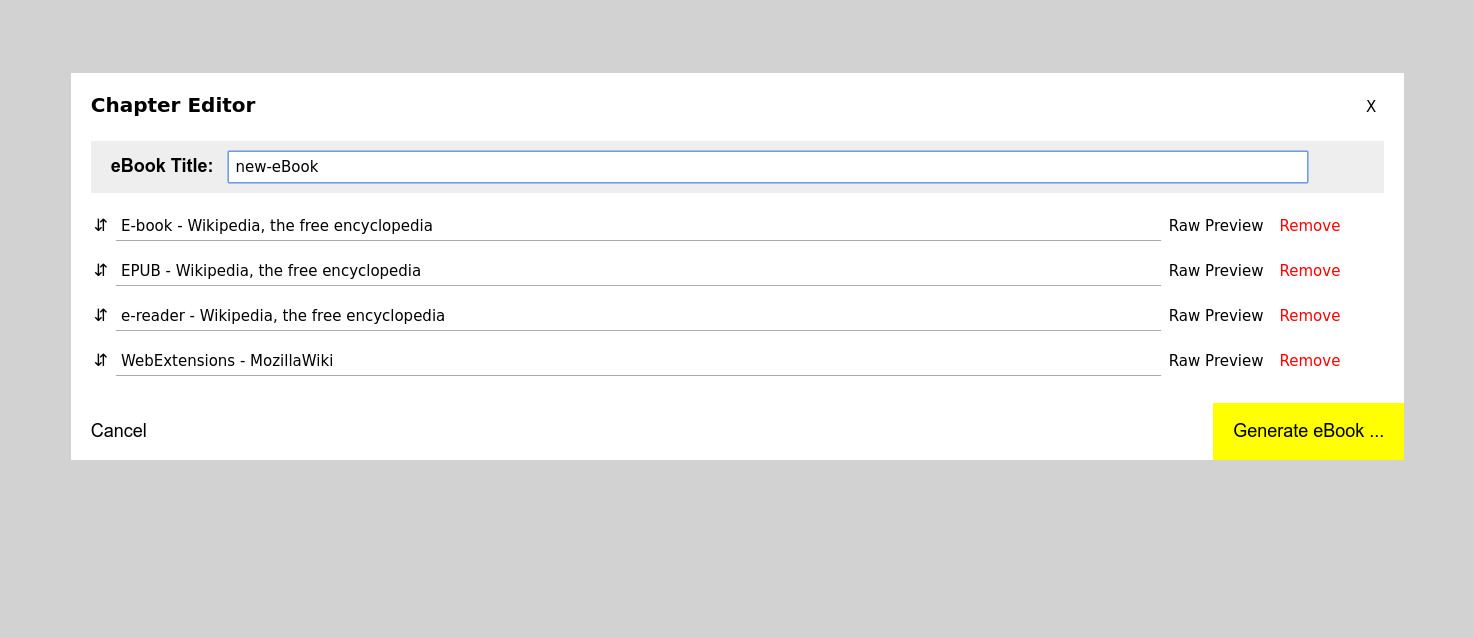
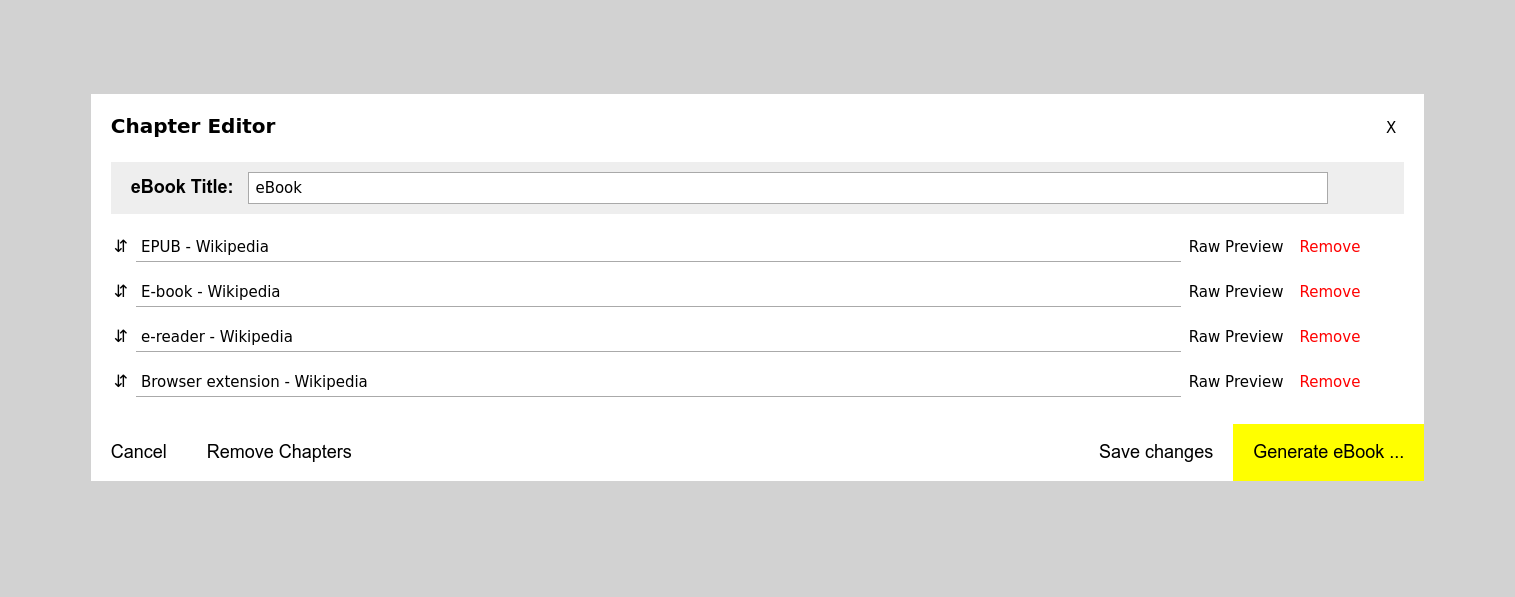
update readme.md & screenshot

diff --git a/README.md b/README.md
@@ -43,6 +43,11 @@ sudo apt-get install calibre
 ebook-convert "book.epub" "book.mobi"
 ```
 
+## Added in v1.1
+ - Chapter Editor: option to save changes
+ - Chapter Editor: option to remove all chapters
+ - persist Chapter Editor changes & chapters after generating an eBook or after a browser restart
+
 ## To-Do
  - fix all 'epubcheck' errors (https://github.com/IDPF/epubcheck)
  - clean & optimize code
